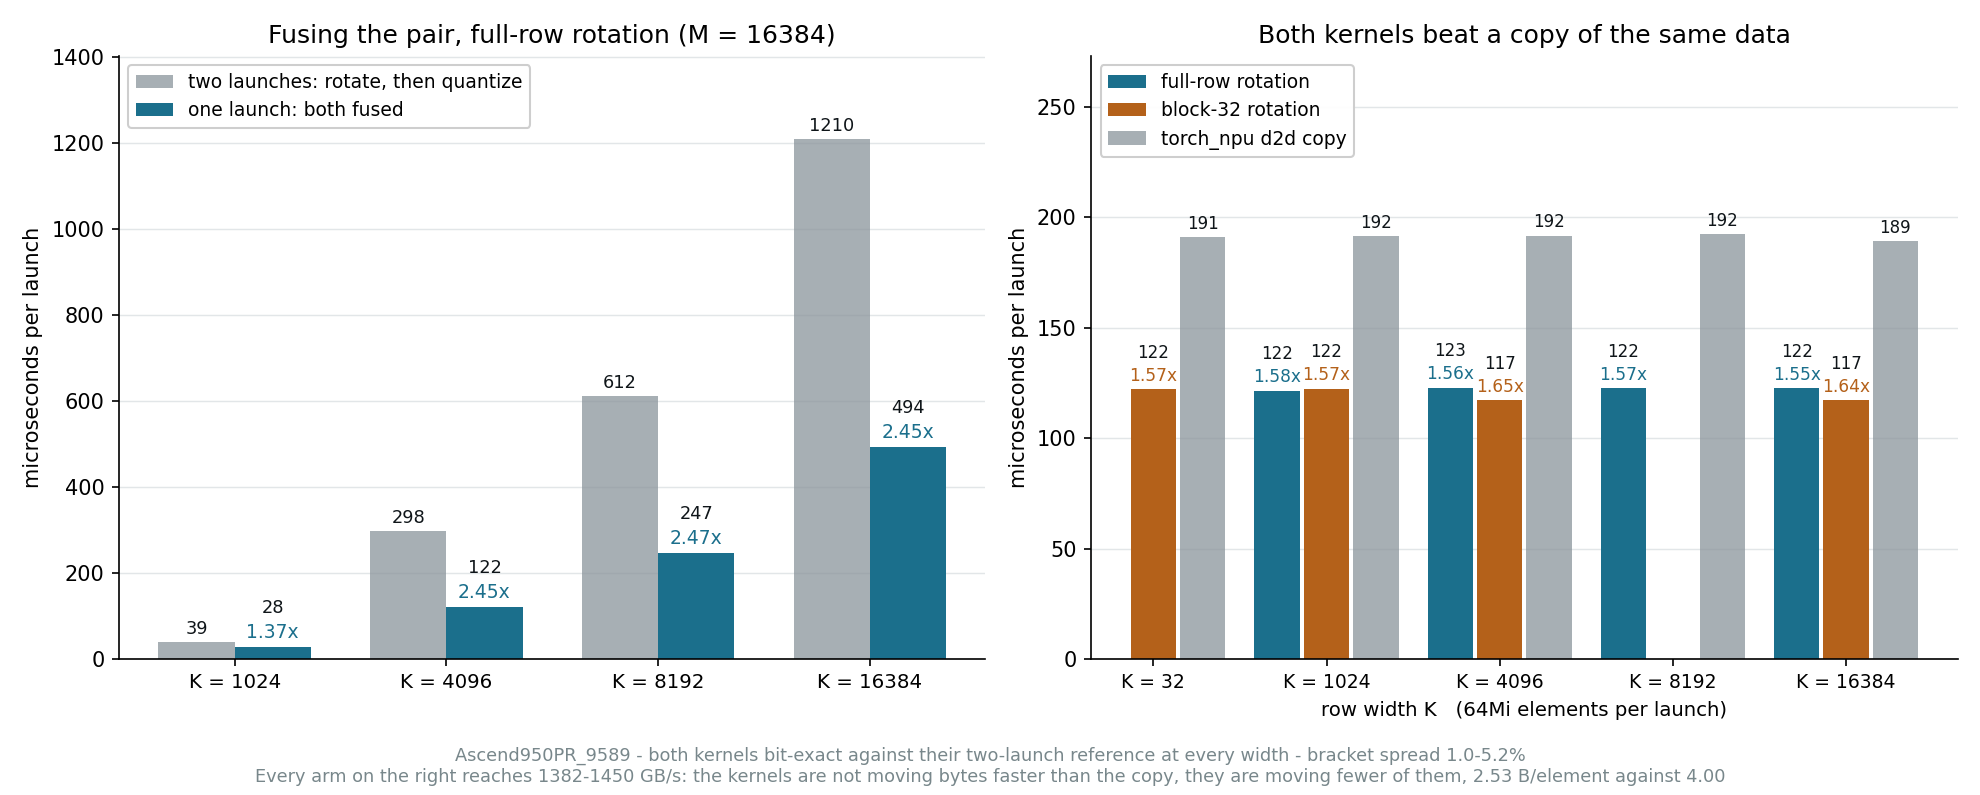
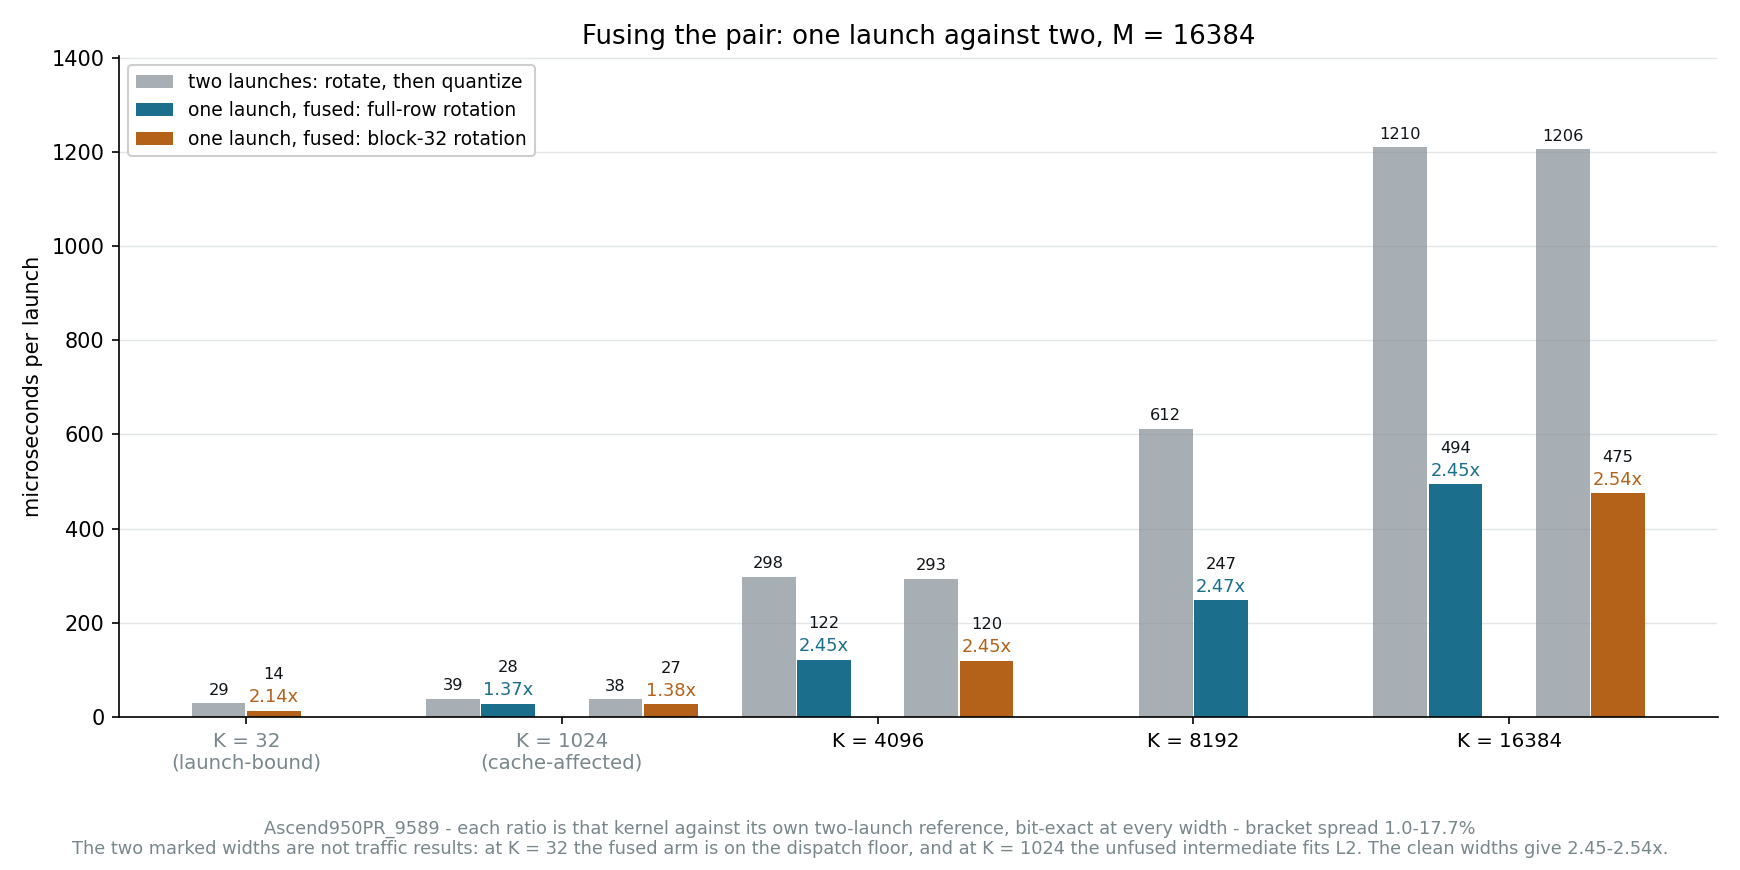
fused_hadamard_quant_a5: one panel, the ladder, both kernels
Drops the copy panel and puts block-32 next to full-row in the one that
is left, so the figure asks a single question: what does fusing the pair
buy, for each kernel.

Each kernel gets its own pair of bars per width and its own ratio,
because the ratio is that kernel against its own two-launch reference.
The two are not being raced against each other -- they rotate different
things for different reasons, and the bar heights are close enough at
every shared width that a reader could easily take it that way.

block-32 brings K=32 and full-row brings K=8192, so two widths have only
one kernel. Colour already says which is which, so a lone pair centres
under its tick rather than sitting in its usual lane, which otherwise
left the label pointing at empty space.

K=32 and K=1024 are now marked on the axis rather than left to the
caption. 2.14x at K=32 is the dispatch floor and 1.37x at K=1024 is an
unfused intermediate that fits L2; neither is a traffic result, and both
sit next to 2.45-2.54x where a reader would otherwise average them in.

The copy comparison is not lost -- it is the table and the reasoning in
both READMEs, which is where it was doing the most work anyway.

Same CSVs, no remeasurement. The ladder spread is 1.0-17.7%, which is
the ladder's own figure, not the 1.0-5.2% the copy sweep had.

diff --git a/fused_hadamard_quant_a5/plot_fusion_both_a5.py b/fused_hadamard_quant_a5/plot_fusion_both_a5.py
@@ -1,24 +1,23 @@
 #!/usr/bin/env python3
-"""What fusing buys, for both kernels, against the copy that bounds them.
+"""What fusing buys, for both kernels: the same work as two launches, then one.
 
-Left, the fusion ladder: the same rotation and quantizer as two launches, then
-as one. Right, both kernels against a device-to-device copy of the same data, as
-a reference for what moving the bytes costs.
+One panel, one question. Each kernel contributes a pair of bars per width --
+the rotation and the quantizer as two launches, then the two fused into one --
+so the ratio above a fused bar is that kernel's own before-and-after, not a
+comparison between the kernels. They are separate kernels for separate uses,
+and this figure is not a race between them.
 
-Both panels are bars, and both are in microseconds, so a height on one reads
-the same way as a height on the other.
+Two widths are in the sweep because they are worth seeing, not because they are
+the headline, and both are marked on the axis:
 
-The right panel is the one that says the result is traffic and not throughput.
-Every arm reaches much the same bandwidth -- 1382-1450 GB/s, printed on each
-bar -- so neither kernel is moving bytes faster than a copy; both are moving
-fewer of them, 2.53 B/element against 4.00, and that is the whole of the 1.5x.
-Plotting the bandwidth instead would make the point badly: on a zero-based axis
-those five figures are one flat wall, which says "the same" but not "so the
-time is lower".
+  K = 32    launch-bound. A row is 0.5M elements at M=16384 and the fused arm's
+            13.6 us is the dispatch floor, so 2.14x is two launches against one
+            rather than anything about bytes.
+  K = 1024  cache-affected. The unfused intermediate is 2*M*k = 32 MB against a
+            128 MiB L2, so the unfused arm partly reads from cache, which
+            flatters the arm fusing is measured against.
 
-The copy is a reference and not a proven lower bound. It is a vendor kernel
-doing a simpler job, and nothing measured here shows it is optimal -- so read
-"faster than the copy" as what it says, and not as "at the hardware limit".
+The clean widths are 4096 and up, and those are the 2.45-2.54x.
 """
 
 import argparse
@@ -42,6 +41,10 @@ COPY = "#8a949b"
 INK = "#0f1519"
 GRID = "#d7dcdf"
 
+# widths whose ratio is not a traffic result; the axis says so rather than
+# leaving a reader to take 2.14x at face value
+CAVEAT = {32: "launch-bound", 1024: "cache-affected"}
+
 
 def read(p):
     with open(p, newline="", encoding="utf-8") as fh:
@@ -56,156 +59,119 @@ def main():
         print("matplotlib required", file=sys.stderr)
         return 1
 
-    full_l = read(HERE / "ladder_full.csv")
-    full_c = read(HERE / "copy_floor_full.csv")
-    b32_c = read(B32 / "copy_floor_b32.csv")
+    full = {int(r["k"]): r for r in read(HERE / "ladder_full.csv")}
+    b32 = {int(r["k"]): r for r in read(B32 / "ladder_b32.csv")}
+    widths = sorted(set(full) | set(b32))
+    xs = list(range(len(widths)))
 
-    fig, (ax, ax2) = plt.subplots(1, 2, figsize=(13.2, 5.3))
+    fig, ax = plt.subplots(figsize=(11.6, 5.8))
 
-    # --- left: the ladder, full-row kernel ---
-    ks = [int(r["k"]) for r in full_l]
-    xs = list(range(len(ks)))
-    bw = 0.36
-    two = [float(r["two_us"]) for r in full_l]
-    one = [float(r["fused_us"]) for r in full_l]
-    ax.bar(
-        [x - bw / 2 for x in xs],
-        two,
-        bw,
-        color=COPY,
-        alpha=0.75,
-        label="two launches: rotate, then quantize",
-        zorder=2,
-    )
-    ax.bar(
-        [x + bw / 2 for x in xs],
-        one,
-        bw,
-        color=FULL,
-        label="one launch: both fused",
-        zorder=2,
-    )
-    for x, a, b, r in zip(xs, two, one, full_l):
-        ax.annotate(
-            f"{a:.0f}",
-            (x - bw / 2, a),
-            textcoords="offset points",
-            xytext=(0, 4),
-            ha="center",
-            fontsize=8.5,
-            color=INK,
-        )
-        ax.annotate(
-            f"{b:.0f}",
-            (x + bw / 2, b),
-            textcoords="offset points",
-            xytext=(0, 16),
-            ha="center",
-            fontsize=8.5,
-            color=INK,
-        )
-        ax.annotate(
-            f"{float(r['vs_two']):.2f}x",
-            (x + bw / 2, b),
-            textcoords="offset points",
-            xytext=(0, 4),
-            ha="center",
-            fontsize=9,
-            color=FULL,
-            weight="medium",
-        )
+    w = 0.17
+    # A pair per kernel: tight inside a pair, a clear gap between pairs. Colour
+    # already says which kernel is which, so a width only one of them supports
+    # centres its pair under the tick instead of sitting off to one side.
+    BOTH = {"full": (-0.345, -0.17), "b32": (0.17, 0.345)}
+    LONE = (-0.0875, 0.0875)
+    lanes = [("full", full, FULL, "full-row rotation"), ("b32", b32, BLOCK, "block-32 rotation")]
+    seen = set()
+    for x, k in zip(xs, widths):
+        here = [ln for ln in lanes if k in ln[1]]
+        for tag, src, colour, name in here:
+            off_two, off_one = BOTH[tag] if len(here) == 2 else LONE
+            r = src[k]
+            two, one = float(r["two_us"]), float(r["fused_us"])
+            ax.bar(
+                x + off_two,
+                two,
+                w,
+                color=COPY,
+                alpha=0.75,
+                zorder=2,
+                label=None if "two" in seen else "two launches: rotate, then quantize",
+            )
+            seen.add("two")
+            ax.bar(
+                x + off_one,
+                one,
+                w,
+                color=colour,
+                zorder=2,
+                label=None if name in seen else f"one launch, fused: {name}",
+            )
+            seen.add(name)
+            ax.annotate(
+                f"{two:.0f}",
+                (x + off_two, two),
+                textcoords="offset points",
+                xytext=(0, 4),
+                ha="center",
+                fontsize=7.8,
+                color=INK,
+            )
+            ax.annotate(
+                f"{one:.0f}",
+                (x + off_one, one),
+                textcoords="offset points",
+                xytext=(0, 15),
+                ha="center",
+                fontsize=7.8,
+                color=INK,
+            )
+            ax.annotate(
+                f"{float(r['vs_two']):.2f}x",
+                (x + off_one, one),
+                textcoords="offset points",
+                xytext=(0, 4),
+                ha="center",
+                fontsize=8.6,
+                color=colour,
+                weight="medium",
+            )
+
     ax.set_xticks(xs)
-    ax.set_xticklabels([f"K = {k}" for k in ks], fontsize=9.5)
+    ax.set_xticklabels(
+        [f"K = {k}" + (f"\n({CAVEAT[k]})" if k in CAVEAT else "") for k in widths],
+        fontsize=9.5,
+    )
+    for lab, k in zip(ax.get_xticklabels(), widths):
+        if k in CAVEAT:
+            lab.set_color("#78878b")
+    ceiling = max(float(r["two_us"]) for m in (full, b32) for r in m.values())
     ax.set_ylabel("microseconds per launch")
-    ax.set_ylim(0, max(two) * 1.16)
-    ax.set_title("Fusing the pair, full-row rotation (M = 16384)", fontsize=12)
-    ax.legend(fontsize=9, loc="upper left", framealpha=0.95)
+    ax.set_ylim(0, ceiling * 1.16)
+    ax.set_title("Fusing the pair: one launch against two, M = 16384", fontsize=12.5)
+    # draw order is data order, so name the legend order explicitly
+    want = [
+        "two launches: rotate, then quantize",
+        "one launch, fused: full-row rotation",
+        "one launch, fused: block-32 rotation",
+    ]
+    handles, labels = ax.get_legend_handles_labels()
+    by = dict(zip(labels, handles))
+    ax.legend(
+        [by[t] for t in want if t in by],
+        [t for t in want if t in by],
+        fontsize=9,
+        loc="upper left",
+        framealpha=0.95,
+    )
     ax.grid(True, axis="y", color=GRID, lw=0.7, alpha=0.7, zorder=0)
     ax.set_axisbelow(True)
     ax.spines[["top", "right"]].set_visible(False)
 
-    # --- right: both kernels against the copy, as bars ---
-    # the two kernels support different widths, so the axis is categorical over
-    # their union and a width a kernel has no instantiation for simply has no bar
-    fullm = {int(r["k"]): r for r in full_c}
-    b32m = {int(r["k"]): r for r in b32_c}
-    widths = sorted(set(fullm) | set(b32m))
-    xs2 = list(range(len(widths)))
-    w2 = 0.285
-
-    def series(m, key):
-        return [float(m[k][key]) if k in m else None for k in widths]
-
-    # the copy is one reference op at every width; take it wherever it was run
-    copy_us = [
-        float((fullm.get(k) or b32m[k])["copy_us"]) if (k in fullm or k in b32m) else None
-        for k in widths
-    ]
-    arms = [
-        (series(fullm, "fused_us"), fullm, FULL, "full-row rotation", -w2),
-        (series(b32m, "fused_us"), b32m, BLOCK, "block-32 rotation", 0.0),
-        (copy_us, None, COPY, "torch_npu d2d copy", w2),
-    ]
-    for vals, src, colour, label, off in arms:
-        pos = [x + off for x, v in zip(xs2, vals) if v is not None]
-        hgt = [v for v in vals if v is not None]
-        keys = [k for k, v in zip(widths, vals) if v is not None]
-        ax2.bar(
-            pos,
-            hgt,
-            w2 * 0.92,  # a surface gap between adjacent bars
-            color=colour,
-            alpha=0.75 if src is None else 1.0,
-            label=label,
-            zorder=2,
-        )
-        for p_, v, k in zip(pos, hgt, keys):
-            # the copy carries its time only; a kernel bar also carries what it
-            # is worth against that copy, which is the whole point of the panel
-            ax2.annotate(
-                f"{v:.0f}",
-                (p_, v),
-                textcoords="offset points",
-                xytext=(0, 15 if src is not None else 4),
-                ha="center",
-                fontsize=8,
-                color=INK,
-            )
-            if src is not None:
-                ax2.annotate(
-                    f"{float(src[k]['vs_copy']):.2f}x",
-                    (p_, v),
-                    textcoords="offset points",
-                    xytext=(0, 4),
-                    ha="center",
-                    fontsize=8.2,
-                    color=colour,
-                    weight="medium",
-                )
-    ax2.set_xticks(xs2)
-    ax2.set_xticklabels([f"K = {k}" for k in widths], fontsize=9)
-    ax2.set_ylim(0, max(v for v in copy_us if v is not None) * 1.42)
-    ax2.set_xlabel("row width K   (64Mi elements per launch)", fontsize=9.5)
-    ax2.set_ylabel("microseconds per launch")
-    ax2.set_title("Both kernels beat a copy of the same data", fontsize=12)
-    ax2.legend(fontsize=9, loc="upper left", framealpha=0.95)
-    ax2.grid(True, axis="y", color=GRID, lw=0.7, alpha=0.7, zorder=0)
-    ax2.set_axisbelow(True)
-    ax2.spines[["top", "right"]].set_visible(False)
-
     fig.text(
         0.5,
-        0.016,
-        "Ascend950PR_9589 - both kernels bit-exact against their two-launch "
-        "reference at every width - bracket spread 1.0-5.2%\n"
-        "Every arm on the right reaches 1382-1450 GB/s: the kernels are not "
-        "moving bytes faster than the copy, they are moving fewer of them, "
-        "2.53 B/element against 4.00",
+        0.018,
+        "Ascend950PR_9589 - each ratio is that kernel against its own two-launch "
+        "reference, bit-exact at every width - bracket spread 1.0-17.7%\n"
+        "The two marked widths are not traffic results: at K = 32 the fused arm is "
+        "on the dispatch floor, and at K = 1024 the unfused intermediate fits L2. "
+        "The clean widths give 2.45-2.54x.",
         ha="center",
         fontsize=8.5,
         color="#78878b",
     )
-    fig.tight_layout(rect=(0, 0.065, 1, 1))
+    fig.tight_layout(rect=(0, 0.085, 1, 1))
     fig.savefig(args.out, dpi=150)
     print(f"wrote {args.out}")
     return 0
